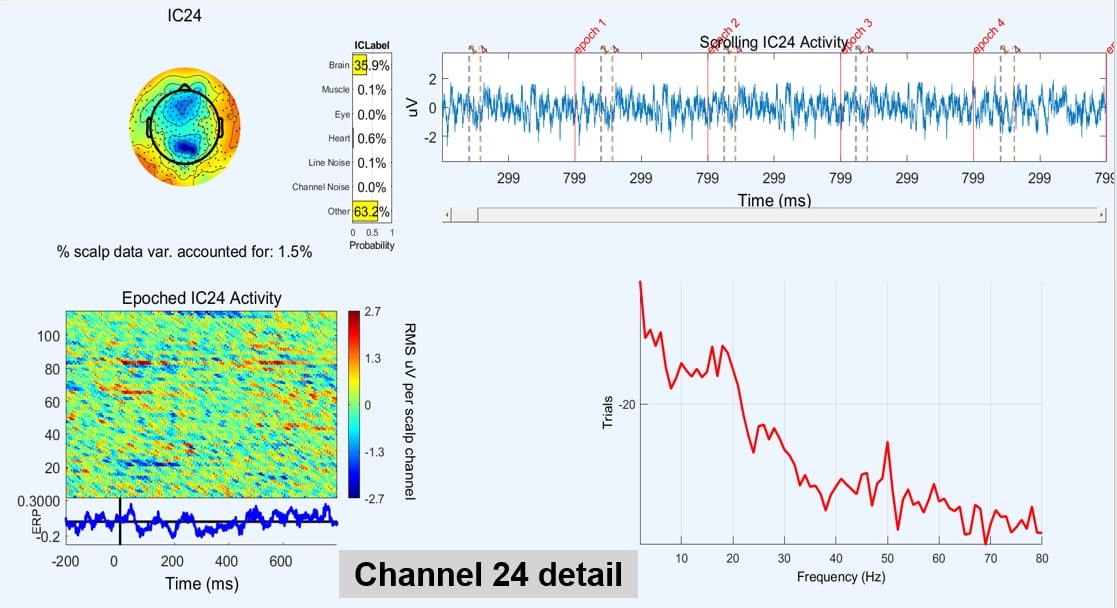
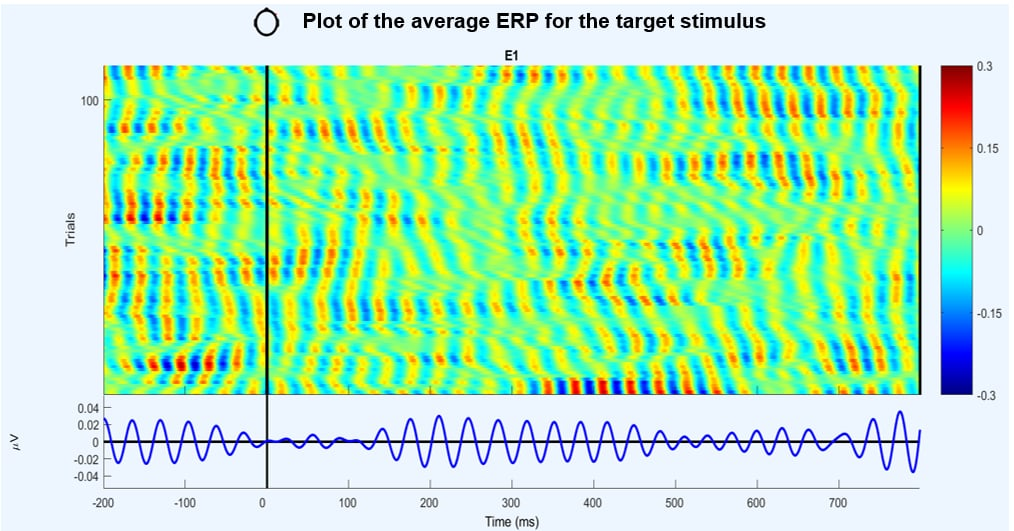
updated eeg_project.html

diff --git a/eeg-project.html b/eeg-project.html
@@ -14,54 +14,48 @@
             <a href="index.html" class="font-bold text-xl text-blue-900">Ananya Anower</a>
             <div class="space-x-6 text-sm font-medium">
                 <a href="index.html" class="hover:text-blue-600">Home</a>
-                <a href="projects.html" class="hover:text-blue-600">Projects</a>
+                <a href="projects.html" class="hover:text-blue-600 font-bold border-b-2 border-blue-600">Projects</a>
                 <a href="publications.html" class="hover:text-blue-600">Publications</a>
             </div>
         </div>
     </nav>
 
     <main class="max-w-6xl mx-auto px-4 py-12">
-        <a href="projects.html" class="text-blue-600 hover:underline mb-4 inline-block font-medium">← Back to Projects</a>
+        <a href="projects.html" class="text-blue-600 hover:underline mb-6 inline-block font-medium">← Back to Projects</a>
         
         <div class="mb-10">
             <h1 class="text-3xl font-bold text-blue-900 mb-2">Automated Makoto-Style Preprocessing Pipeline for High-Density EEG</h1>
-            <p class="text-gray-600">Visualizing signal-to-noise optimization and ICA artifact rejection for 256-channel datasets.</p>
+            <p class="text-gray-600">Click any image to view it in full resolution and zoom.</p>
         </div>
 
-        <!-- Image Gallery Grid -->
-        <div class="grid grid-cols-1 sm:grid-cols-2 lg:grid-cols-3 gap-6">
+        <!-- Large Image Grid (No captions, zoomable via click) -->
+        <div class="grid grid-cols-1 md:grid-cols-2 gap-8">
             
             <!-- Image 1 -->
-            <div class="bg-white p-2 rounded-lg shadow-sm border border-gray-200">
-                <img src="images/img1.jpeg" alt="EEG Research Image 1" class="w-full h-64 object-cover rounded mb-2 hover:opacity-90 transition">
-                <p class="text-xs text-gray-500 italic text-center">Dataset Preprocessing Pipeline</p>
-            </div>
+            <a href="images/img1.jpeg" target="_blank" class="block bg-white p-2 rounded-lg shadow-md hover:shadow-xl transition-shadow border border-gray-200">
+                <img src="images/img1.jpeg" alt="EEG Research" class="w-full h-auto rounded">
+            </a>
 
             <!-- Image 2 -->
-            <div class="bg-white p-2 rounded-lg shadow-sm border border-gray-200">
-                <img src="images/img2.jpeg" alt="EEG Research Image 2" class="w-full h-64 object-cover rounded mb-2 hover:opacity-90 transition">
-                <p class="text-xs text-gray-500 italic text-center">ICA Component Mapping</p>
-            </div>
+            <a href="images/img2.jpeg" target="_blank" class="block bg-white p-2 rounded-lg shadow-md hover:shadow-xl transition-shadow border border-gray-200">
+                <img src="images/img2.jpeg" alt="EEG Research" class="w-full h-auto rounded">
+            </a>
 
             <!-- Image 3 -->
-            <div class="bg-white p-2 rounded-lg shadow-sm border border-gray-200">
-                <img src="images/img3.jpeg" alt="EEG Research Image 3" class="w-full h-64 object-cover rounded mb-2 hover:opacity-90 transition">
-                <p class="text-xs text-gray-500 italic text-center">ERP Waveform Analysis</p>
-            </div>
+            <a href="images/img3.jpeg" target="_blank" class="block bg-white p-2 rounded-lg shadow-md hover:shadow-xl transition-shadow border border-gray-200">
+                <img src="images/img3.jpeg" alt="EEG Research" class="w-full h-auto rounded">
+            </a>
 
             <!-- Image 4 -->
-            <div class="bg-white p-2 rounded-lg shadow-sm border border-gray-200">
-                <img src="images/img4.jpeg" alt="EEG Research Image 4" class="w-full h-64 object-cover rounded mb-2 hover:opacity-90 transition">
-                <p class="text-xs text-gray-500 italic text-center">Signal Processing Results</p>
-            </div>
-
-            <!-- To add more images, just copy the block above and change the img src to img5.jpeg, img6.jpeg etc. -->
+            <a href="images/img4.jpeg" target="_blank" class="block bg-white p-2 rounded-lg shadow-md hover:shadow-xl transition-shadow border border-gray-200">
+                <img src="images/img4.jpeg" alt="EEG Research" class="w-full h-auto rounded">
+            </a>
 
         </div>
 
-        <div class="mt-12 bg-blue-900 text-white p-8 rounded-lg shadow-lg">
-            <h2 class="text-xl font-bold mb-4">Research Summary</h2>
-            <p class="text-blue-50 leading-relaxed">
+        <div class="mt-12 bg-white p-8 rounded-lg shadow-sm border-l-8 border-blue-900">
+            <h2 class="text-xl font-bold text-blue-900 mb-4">Research Summary</h2>
+            <p class="text-gray-700 leading-relaxed">
                 This project focuses on the stability of **P300 Event-Related Potentials** during long-term cognitive tasks. 
                 Using **MATLAB** and **EEGLAB**, I engineered an automated pipeline to handle high-density data, 
                 significantly reducing manual labor while increasing the precision of artifact detection in **256-channel** recordings.
